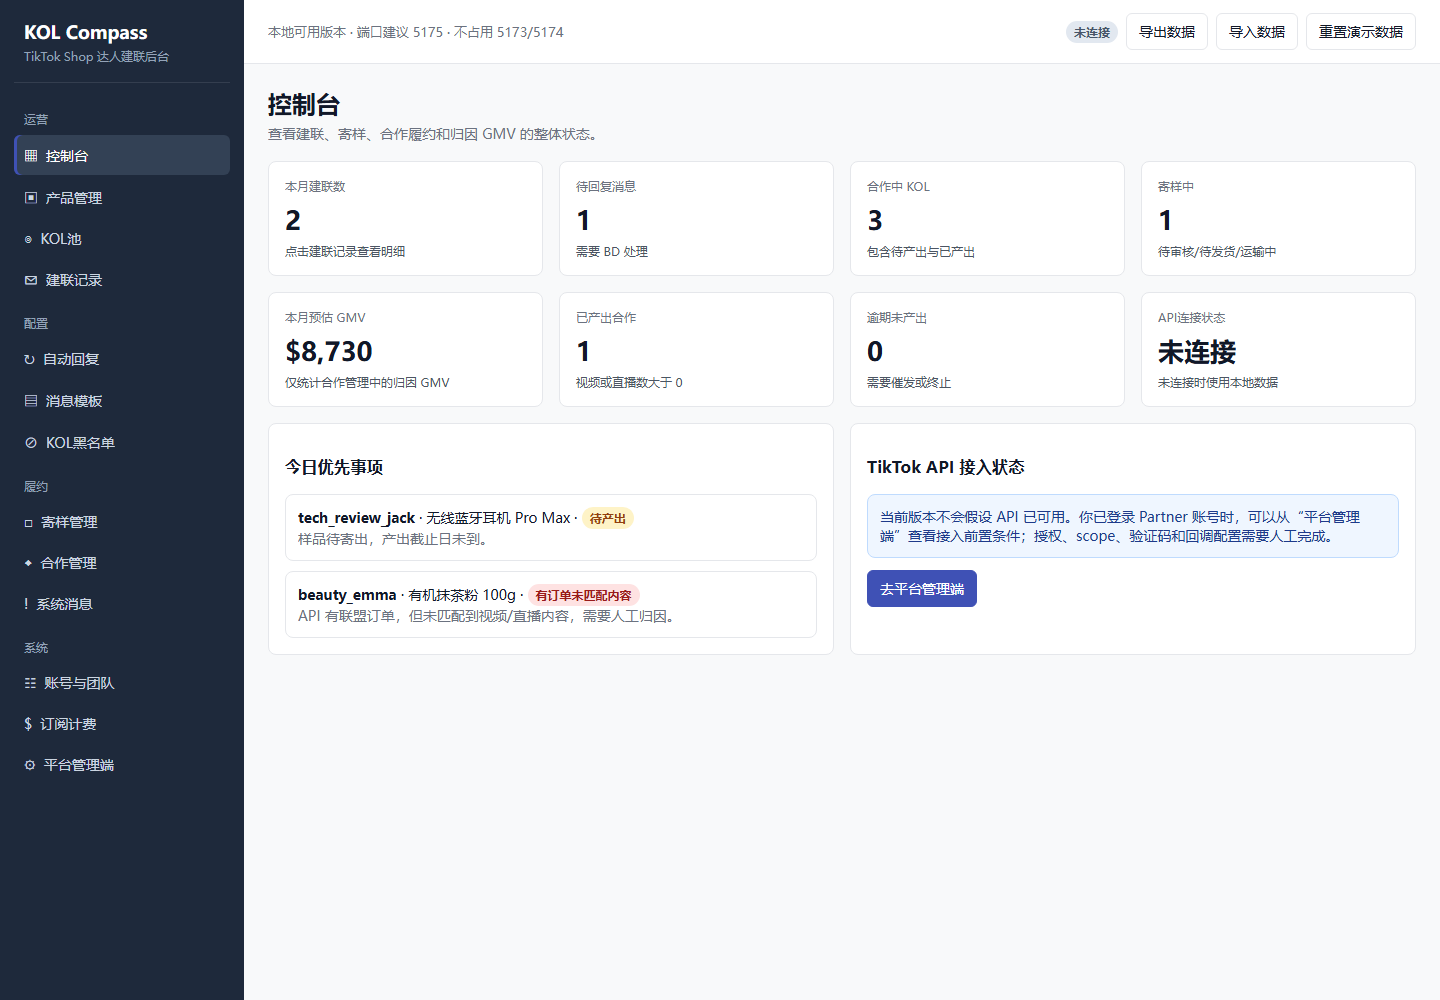
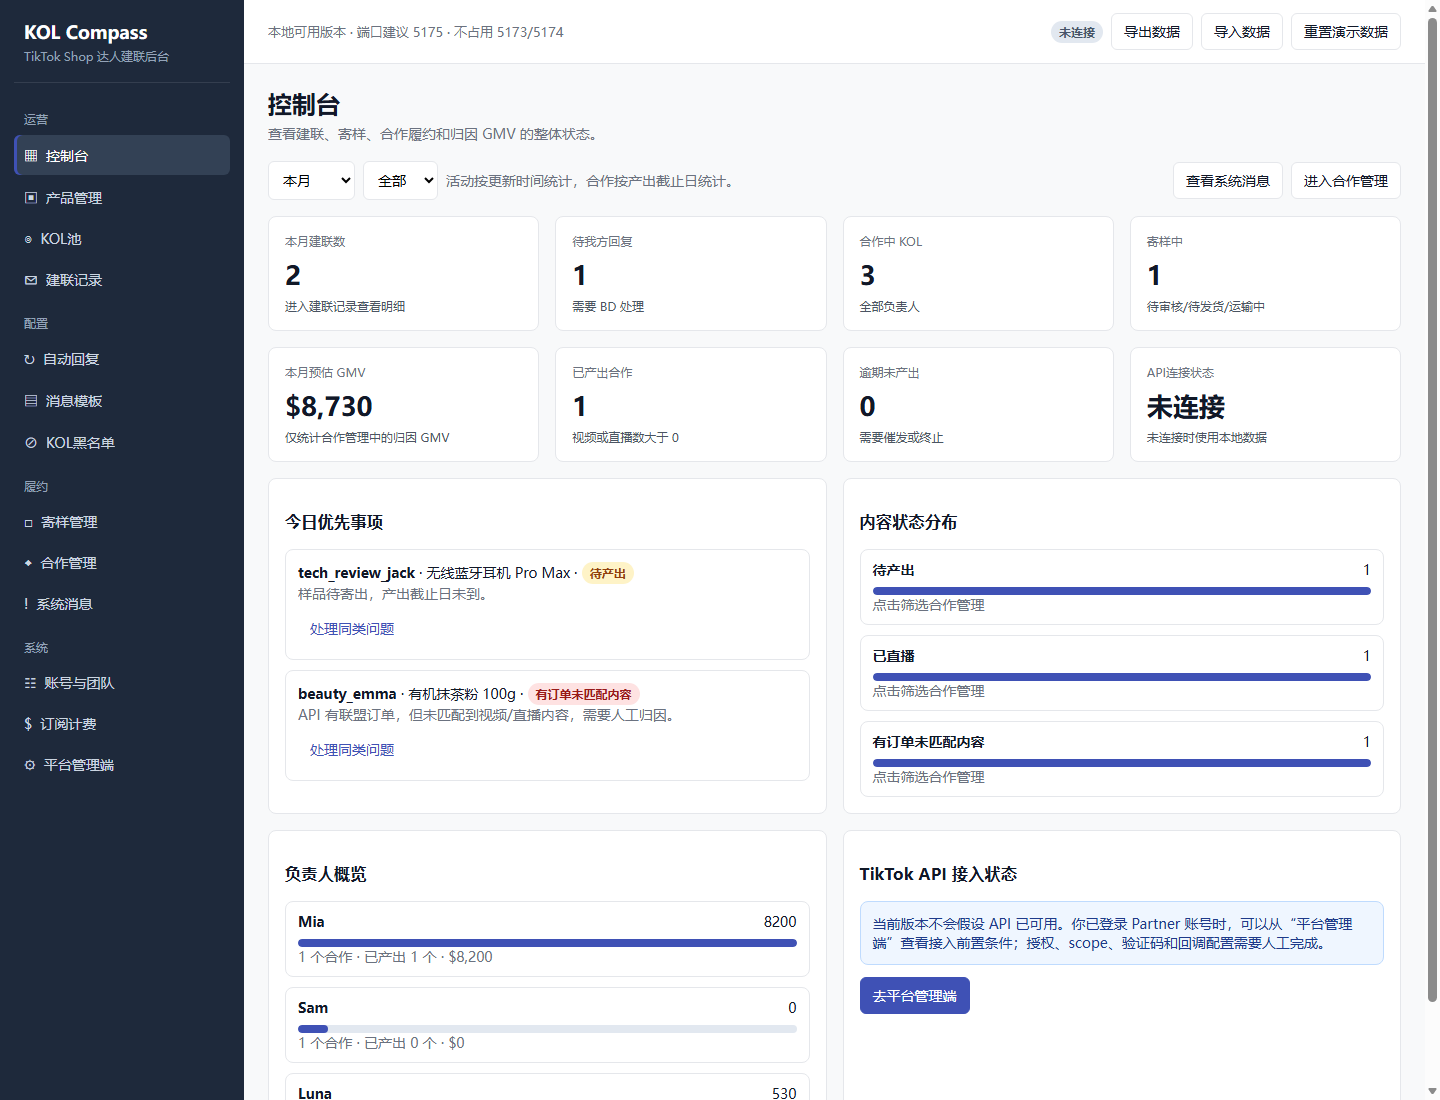
Enhance dashboard operations view

diff --git a/app.js b/app.js
@@ -58,6 +58,8 @@ const seed = {
     coopOutput: "全部",
     coopStatus: "全部",
     coopTag: "全部",
+    dashboardRange: "本月",
+    dashboardOwner: "全部",
     messageType: "全部",
     messageRead: "全部",
   },
@@ -283,6 +285,38 @@ function monthKey(value = new Date()) {
   return parsed.toISOString().slice(0, 7);
 }
 
+function dateOnly(value) {
+  const parsed = new Date(value);
+  if (Number.isNaN(parsed.getTime())) return null;
+  return new Date(parsed.getFullYear(), parsed.getMonth(), parsed.getDate());
+}
+
+function datePlus(base, days) {
+  const next = new Date(base);
+  next.setDate(next.getDate() + days);
+  return next;
+}
+
+function inActivityRange(value, range) {
+  if (range === "全部") return true;
+  const date = dateOnly(value);
+  if (!date) return false;
+  const today = dateOnly(new Date());
+  if (range === "本月") return date.getFullYear() === today.getFullYear() && date.getMonth() === today.getMonth();
+  const days = range === "近7天" ? 7 : 30;
+  return date >= datePlus(today, -(days - 1)) && date <= today;
+}
+
+function inDueRange(value, range) {
+  if (range === "全部") return true;
+  const date = dateOnly(value);
+  if (!date) return false;
+  const today = dateOnly(new Date());
+  if (range === "本月") return date.getFullYear() === today.getFullYear() && date.getMonth() === today.getMonth();
+  const days = range === "近7天" ? 7 : 30;
+  return date >= today && date <= datePlus(today, days);
+}
+
 function outreachQuota() {
   return planQuotas[state.settings.planName] ?? planQuotas["专业版"];
 }
@@ -452,40 +486,100 @@ function pageHead(title, desc, action = "") {
   `;
 }
 
-function stat(label, value, note = "") {
-  return `<div class="card"><div class="stat-label">${label}</div><div class="stat-value">${value}</div><div class="stat-note">${note}</div></div>`;
+function stat(label, value, note = "", action = "") {
+  const attrs = action ? ` role="button" tabindex="0" onclick="${action}" onkeydown="if(event.key==='Enter'||event.key===' '){event.preventDefault();${action}}"` : "";
+  return `<div class="card stat-card ${action ? "clickable" : ""}"${attrs}><div class="stat-label">${label}</div><div class="stat-value">${value}</div><div class="stat-note">${note}</div></div>`;
+}
+
+function trendBar(label, value, max, note = "", action = "") {
+  const width = max > 0 ? Math.max(6, Math.round((value / max) * 100)) : 0;
+  const click = action ? ` onclick="${action}"` : "";
+  return `
+    <div class="trend-row ${action ? "clickable" : ""}"${click}>
+      <div class="trend-head"><b>${label}</b><span>${value}</span></div>
+      <div class="trend-track"><div class="trend-fill" style="width:${width}%"></div></div>
+      ${note ? `<div class="muted">${note}</div>` : ""}
+    </div>
+  `;
 }
 
 function renderDashboard() {
-  const totalOutreach = state.outreach.length;
-  const replied = state.outreach.filter((x) => x.status === "待我方回复").length;
-  const activeCoops = state.cooperations.filter((x) => x.status !== "合作结束").length;
-  const sampleOpen = state.samples.filter((x) => x.status !== "已签收").length;
-  const gmv = state.cooperations.reduce((sum, x) => sum + Number(x.gmv || 0), 0);
-  const output = state.cooperations.filter((x) => x.videos > 0 || x.lives > 0).length;
+  const range = state.filters.dashboardRange || "本月";
+  const owner = state.filters.dashboardOwner || "全部";
+  const owners = Array.from(new Set(state.cooperations.map((x) => x.owner).filter(Boolean)));
+  const dashboardCoops = state.cooperations.filter((x) => {
+    const ownerOk = owner === "全部" || x.owner === owner;
+    return ownerOk && inDueRange(x.dueDate, range);
+  });
+  const dashboardOutreach = state.outreach.filter((x) => inActivityRange(x.updatedAt, range));
+  const dashboardSamples = state.samples.filter((x) => inActivityRange(x.updatedAt, range));
+  const totalOutreach = dashboardOutreach.length;
+  const replied = dashboardOutreach.filter((x) => x.status === "待我方回复").length;
+  const activeCoops = dashboardCoops.filter((x) => x.status !== "合作结束").length;
+  const sampleOpen = dashboardSamples.filter((x) => x.status !== "已签收").length;
+  const gmv = dashboardCoops.reduce((sum, x) => sum + Number(x.gmv || 0), 0);
+  const output = dashboardCoops.filter((x) => x.videos > 0 || x.lives > 0).length;
+  const riskCoops = dashboardCoops.filter((x) => ["逾期未产出", "有订单未匹配内容", "待产出"].includes(x.status));
+  const statusCounts = outputStatuses
+    .filter((x) => x !== "全部")
+    .map((status) => ({ status, count: dashboardCoops.filter((x) => x.status === status).length }))
+    .filter((x) => x.count > 0);
+  const maxStatus = Math.max(0, ...statusCounts.map((x) => x.count));
+  const ownerRows = owners.map((name) => {
+    const rows = state.cooperations.filter((x) => x.owner === name && inDueRange(x.dueDate, range));
+    const produced = rows.filter((x) => x.videos > 0 || x.lives > 0).length;
+    return { name, rows, produced, gmv: rows.reduce((sum, x) => sum + Number(x.gmv || 0), 0) };
+  }).filter((x) => x.rows.length > 0);
+  const maxOwnerGmv = Math.max(0, ...ownerRows.map((x) => x.gmv));
   return `
     ${pageHead("控制台", "查看建联、寄样、合作履约和归因 GMV 的整体状态。")}
+    <div class="toolbar">
+      <div class="filters">
+        <select class="select" onchange="setFilter('dashboardRange', this.value)" aria-label="控制台时间范围">
+          ${["本月", "近7天", "近30天", "全部"].map((x) => `<option ${range === x ? "selected" : ""}>${x}</option>`).join("")}
+        </select>
+        <select class="select" onchange="setFilter('dashboardOwner', this.value)" aria-label="控制台负责人">
+          ${["全部", ...owners].map((x) => `<option ${owner === x ? "selected" : ""}>${escapeHtml(x)}</option>`).join("")}
+        </select>
+        <span class="muted">活动按更新时间统计，合作按产出截止日统计。</span>
+      </div>
+      <div class="filters">
+        <button class="btn" onclick="dashboardGo('messages')">查看系统消息</button>
+        <button class="btn" onclick="dashboardGo('cooperations')">进入合作管理</button>
+      </div>
+    </div>
     <div class="grid grid-4">
-      ${stat("本月建联数", totalOutreach, "点击建联记录查看明细")}
-      ${stat("待回复消息", replied, "需要 BD 处理")}
-      ${stat("合作中 KOL", activeCoops, "包含待产出与已产出")}
-      ${stat("寄样中", sampleOpen, "待审核/待发货/运输中")}
-      ${stat("本月预估 GMV", money(gmv), "仅统计合作管理中的归因 GMV")}
-      ${stat("已产出合作", output, "视频或直播数大于 0")}
-      ${stat("逾期未产出", state.cooperations.filter((x) => x.status === "逾期未产出").length, "需要催发或终止")}
-      ${stat("API连接状态", state.settings.apiStatus, "未连接时使用本地数据")}
+      ${stat(`${range}建联数`, totalOutreach, "进入建联记录查看明细", "dashboardGo('outreach','outreachStatus','全部')")}
+      ${stat("待我方回复", replied, "需要 BD 处理", "dashboardGo('outreach','outreachStatus','待我方回复')")}
+      ${stat("合作中 KOL", activeCoops, owner === "全部" ? "全部负责人" : `负责人：${owner}`, "dashboardGo('cooperations','coopStatus','全部')")}
+      ${stat("寄样中", sampleOpen, "待审核/待发货/运输中", "dashboardGo('samples')")}
+      ${stat(`${range}预估 GMV`, money(gmv), "仅统计合作管理中的归因 GMV", "dashboardGo('cooperations','coopStatus','全部')")}
+      ${stat("已产出合作", output, "视频或直播数大于 0", "dashboardGo('cooperations','coopOutput','已产出')")}
+      ${stat("逾期未产出", dashboardCoops.filter((x) => x.status === "逾期未产出").length, "需要催发或终止", "dashboardGo('cooperations','coopStatus','逾期未产出')")}
+      ${stat("API连接状态", state.settings.apiStatus, "未连接时使用本地数据", "dashboardGo('admin')")}
     </div>
     <div class="grid grid-2" style="margin-top:16px">
       <div class="card">
         <h3>今日优先事项</h3>
         <div class="timeline">
-          ${state.cooperations.filter((x) => ["逾期未产出", "有订单未匹配内容", "待产出"].includes(x.status)).slice(0, 4).map((x) => `
+          ${riskCoops.slice(0, 4).map((x) => `
             <div class="message">
               <b>${creator(x.creatorId)?.username || "-"}</b> · ${product(x.productId)?.name || "-"} · ${badge(x.status)}
               <div class="muted">${escapeHtml(x.notes)}</div>
+              <div style="margin-top:8px"><button class="btn ghost" onclick="dashboardGo('cooperations','coopStatus','${escapeJs(x.status)}')">处理同类问题</button></div>
             </div>
           `).join("") || `<div class="empty">暂无需要处理的合作。</div>`}
         </div>
+      </div>
+      <div class="card">
+        <h3>内容状态分布</h3>
+        ${statusCounts.map((x) => trendBar(x.status, x.count, maxStatus, "点击筛选合作管理", `dashboardGo('cooperations','coopStatus','${escapeJs(x.status)}')`)).join("") || `<div class="empty">当前范围内暂无合作数据。</div>`}
+      </div>
+    </div>
+    <div class="grid grid-2" style="margin-top:16px">
+      <div class="card">
+        <h3>负责人概览</h3>
+        ${ownerRows.map((x) => trendBar(escapeHtml(x.name), x.gmv, maxOwnerGmv, `${x.rows.length} 个合作 · 已产出 ${x.produced} 个 · ${money(x.gmv)}`, `setFilter('dashboardOwner','${escapeJs(x.name)}')`)).join("") || `<div class="empty">暂无负责人数据。</div>`}
       </div>
       <div class="card">
         <h3>TikTok API 接入状态</h3>
@@ -1060,6 +1154,23 @@ function setFilter(key, value) {
   state.filters[key] = value;
   saveState();
   render();
+}
+
+function dashboardGo(page, filterKey = "", value = "") {
+  if (page === "outreach") {
+    state.filters.outreachSearch = "";
+    state.filters.outreachChannel = "全部";
+    state.filters.outreachStatus = filterKey === "outreachStatus" ? value : "全部";
+  }
+  if (page === "cooperations") {
+    if (filterKey === "coopStatus") state.filters.coopStatus = value;
+    else state.filters.coopStatus = "全部";
+    if (filterKey === "coopOutput") state.filters.coopOutput = value;
+    else state.filters.coopOutput = "全部";
+    state.filters.coopSearch = state.filters.dashboardOwner === "全部" ? "" : state.filters.dashboardOwner;
+    state.filters.coopTag = "全部";
+  }
+  navigateHash(page);
 }
 
 function showCreator(id) {
@@ -2259,6 +2370,7 @@ function escapeJs(value) {
 
 window.setPage = setPage;
 window.setFilter = setFilter;
+window.dashboardGo = dashboardGo;
 window.showCreator = showCreator;
 window.syncProducts = syncProducts;
 window.syncCreators = syncCreators;

diff --git a/smoke-test.js b/smoke-test.js
@@ -59,6 +59,8 @@ async function main() {
   }
 
   assert("cooperation has produced/unproduced metrics", app.includes("已产出达人") && app.includes("未产出达人"));
+  assert("dashboard filters and drilldowns supported", ["dashboardRange", "dashboardOwner", "dashboardGo", "内容状态分布", "负责人概览"].every((name) => app.includes(name)));
+  assert("dashboard separates activity and due ranges", ["inActivityRange", "inDueRange"].every((name) => app.includes(`function ${name}`)) && app.includes("活动按更新时间统计，合作按产出截止日统计"));
   assert("cooperation search and output filters supported", ["coopSearch", "coopOutput"].every((name) => app.includes(name)) && app.includes("搜索达人、产品、负责人、备注"));
   assert("product filters supported", ["productSearch", "productCategory", "productStatus", "productMode"].every((name) => app.includes(name)) && app.includes("真实商品、佣金率和合作模式应来自 TikTok Shop Partner API"));
   assert("cooperation has content tracking status filters", app.includes("逾期未产出") && app.includes("有订单未匹配内容"));

diff --git a/app.css b/app.css
@@ -167,6 +167,17 @@ button {
   padding: 16px;
 }
 
+.stat-card.clickable,
+.trend-row.clickable {
+  cursor: pointer;
+}
+
+.stat-card.clickable:hover,
+.trend-row.clickable:hover {
+  border-color: var(--primary);
+  box-shadow: 0 1px 0 rgba(37, 99, 235, 0.08);
+}
+
 .stat-label {
   color: var(--muted);
   font-size: 12px;
@@ -182,6 +193,34 @@ button {
   color: var(--subtle);
   font-size: 12px;
   margin-top: 6px;
+}
+
+.trend-row {
+  border: 1px solid var(--border);
+  border-radius: 8px;
+  padding: 10px 12px;
+  margin-top: 10px;
+}
+
+.trend-head {
+  display: flex;
+  align-items: center;
+  justify-content: space-between;
+  gap: 12px;
+  margin-bottom: 8px;
+}
+
+.trend-track {
+  height: 8px;
+  border-radius: 999px;
+  background: #e2e8f0;
+  overflow: hidden;
+}
+
+.trend-fill {
+  height: 100%;
+  border-radius: 999px;
+  background: var(--primary);
 }
 
 .toolbar {

diff --git a/docs/CLAUDE_CONTINUE.md b/docs/CLAUDE_CONTINUE.md
@@ -31,7 +31,7 @@
 - `stop-5175.bat`
 - `smoke-test.js`
 
-最近一次心跳检查：2026-06-22 04:09 CST，当前分支已连接 GitHub 远端，`node --check app.js` 与 `node smoke-test.js` 通过。本轮补齐系统消息通知中心：类型筛选、已读筛选、全部已读、单条已读、删除和 90 天本地保留。
+最近一次心跳检查：2026-06-22 05:02 CST，当前分支已连接 GitHub 远端，`node --check app.js` 与 `node smoke-test.js` 通过。本轮增强控制台：本月/近7天/近30天/全部时间范围筛选、负责人筛选、指标下钻、内容状态分布和负责人概览；截图 `smoke-dashboard.png` 已重新生成并目视检查通过。
 
 启动：
 
@@ -83,20 +83,26 @@ KOL详情页不能展示：
 P0：
 
 1. 保持 `smoke-test.js` 全绿。
-2. 保持产品管理可用：
+2. 保持控制台作为运营入口可用：
+   - 支持本月/近7天/近30天/全部筛选
+   - 支持按合作负责人筛选
+   - 活动指标按更新时间统计，合作履约指标按产出截止日统计
+   - 关键指标可下钻到建联记录、寄样管理、合作管理、系统消息和平台管理端
+   - 内容状态分布和负责人概览可直接筛选
+3. 保持产品管理可用：
    - 支持关键词搜索
    - 支持类目、状态、合作模式筛选
    - 未授权 TikTok Partner API 时只展示本地数据和明确提示，不伪造同步成功
    - 不允许手动新增商品，避免和 TikTok Shop 真实商品源冲突
-3. 补齐各页面的新增/编辑/删除闭环，不只是展示。
-4. 把“合作管理”作为内容追踪主工作台继续增强：
+4. 补齐各页面的新增/编辑/删除闭环，不只是展示。
+5. 把“合作管理”作为内容追踪主工作台继续增强：
    - 达人/产品/负责人/备注搜索
    - 已产出 / 未产出筛选
    - 固定标签 + 自定义标签
    - 逾期未产出检查
    - 有订单未匹配内容的处理动作
    - 催发、结束、删除等操作必须真实更新本地状态
-5. 保持 KOL 池批量建联闭环：
+6. 保持 KOL 池批量建联闭环：
    - 关键词、达人类型、类目、地区、粉丝量级、回复率区间筛选
    - 勾选达人
    - 一键建联
@@ -105,7 +111,7 @@ P0：
    - 附加邀请链接时自动进入合作管理
    - 保存建联时必须校验月配额、同一达人 24 小时限发、不感兴趣 30 天屏蔽
    - 建联记录和 KOL 池均可标记不感兴趣，手动恢复后才可再次建联
-6. 保持沟通闭环：
+7. 保持沟通闭环：
    - 达人编辑弹窗可录入 Email / WhatsApp
    - 建联记录可按达人/产品/消息关键词、沟通状态、渠道筛选
    - 建联记录可直接回复
@@ -113,19 +119,19 @@ P0：
    - 回复后沟通状态回到待达人回复
    - 消息模板可新增、编辑、删除，并保留变量提示
    - 自动回复可新增、编辑、删除、启停和本地测试触发；真实发送必须等 TikTok/Email/WhatsApp 接入完成后再启用外部发送
-7. 增强数据持久化：
+8. 增强数据持久化：
    - 当前使用 localStorage
    - 后续如果需要后端，新增本项目自己的后端端口，例如 `8015`
    - 不接入 `D:\tiktok-creator-tool` 的后端
-8. 保持平台功能开关真实生效：
+9. 保持平台功能开关真实生效：
    - Email / WhatsApp 关闭后，新建联和回复渠道不展示对应入口
    - 保存建联/回复时必须二次校验渠道开关和达人联系方式
    - Stripe 关闭后，订阅页必须明确展示 Stripe 不可用
-9. 保持团队管理可用：
+10. 保持团队管理可用：
    - 成员可新增、编辑、启禁用
    - 角色权限摘要和可访问店铺必须可见
    - 关键操作要写入操作日志，日志包含操作人、动作、对象、内容、IP、时间
-10. 保持系统消息通知中心可用：
+11. 保持系统消息通知中心可用：
    - 支持同步日志
    - 支持类型筛选、已读筛选、全部已读、单条已读、删除
    - 本地消息保留最近 90 天

diff --git a/docs/PROJECT_MEMORY.md b/docs/PROJECT_MEMORY.md
@@ -1,6 +1,6 @@
 # KOL Compass 项目记忆
 
-更新时间：2026-06-22 04:09 CST
+更新时间：2026-06-22 05:02 CST
 
 ## 当前工作目录
 
@@ -40,6 +40,7 @@ node smoke-test.js
 
 - `node --check app.js` 通过。
 - `node smoke-test.js` 全部通过。
+- 控制台截图 `smoke-dashboard.png` 已重新生成并目视检查通过，时间范围筛选、负责人筛选、指标下钻、内容状态分布和负责人概览可见。
 - 系统消息截图 `smoke-messages.png` 已重新生成并目视检查通过，类型筛选、已读筛选、全部已读、单条已读/删除可见。
 - 账号与团队截图 `smoke-team.png` 已生成并目视检查通过，成员管理、角色权限、可访问店铺和操作日志可见。
 - KOL 池截图 `smoke-kol-pool.png` 已重新生成并目视检查通过，建联配额、24 小时限发和不感兴趣入口可见。
@@ -58,6 +59,8 @@ node smoke-test.js
 - 寄样管理截图 `smoke-samples.png` 已生成并目视检查通过。
 - `5175` 是本项目端口。
 - `5173` / `5174` 不属于本项目，不能占用或关闭。
+- 控制台已支持按本月/近7天/近30天/全部筛选，并支持按合作负责人筛选；活动指标按更新时间统计，合作履约指标按产出截止日统计。
+- 控制台关键指标可下钻到建联记录、寄样管理、合作管理、系统消息和平台管理端；合作状态分布和负责人概览可直接筛选。
 - KOL 详情页不展示内容产出、视频、直播、GMV、订单、佣金、ROI。
 - 内容追踪只放在合作管理。
 - 产品管理已支持按产品关键词、类目、状态、合作模式筛选，并明确提示真实数据来自 TikTok Shop Partner API。

diff --git a/docs/ACCEPTANCE_REPORT.md b/docs/ACCEPTANCE_REPORT.md
@@ -71,6 +71,24 @@
 
 `smoke-cooperations.png`
 
+### 控制台
+
+控制台是运营入口，不只展示静态数字。
+
+已包含：
+
+- 本月/近7天/近30天/全部时间范围筛选
+- 负责人筛选
+- 建联、待我方回复、合作中、寄样中、GMV、已产出、逾期未产出、API 状态指标
+- 指标点击下钻到对应业务页面
+- 今日优先事项
+- 内容状态分布
+- 负责人概览
+
+验收截图：
+
+`smoke-dashboard.png`
+
 ### KOL详情
 
 KOL详情页只展示基础资料、联系方式、标签备注、沟通记录和合作入口。
@@ -118,6 +136,7 @@ node smoke-test.js
 - `index.html` 正确加载 `app.js`
 - 端口边界文档存在
 - 核心页面文案存在
+- 控制台支持时间范围筛选、负责人筛选、指标下钻、内容状态分布和负责人概览
 - 合作管理包含已产出/未产出
 - 合作管理包含内容追踪状态筛选
 - 合作管理包含催发、匹配、结束、删除操作

diff --git a/README.md b/README.md
@@ -66,6 +66,7 @@ KOL CSV 支持表头：
 - 本地静态 SPA，无需安装 npm 依赖。
 - 数据存储在浏览器 `localStorage`，支持刷新后保留。
 - 顶部工具栏支持导出/导入 JSON，便于本地备份、迁移和恢复。
+- 控制台支持本月/近7天/近30天/全部时间范围筛选、负责人筛选、指标下钻、内容状态分布和负责人概览。
 - 产品管理支持搜索、类目筛选、状态筛选和合作模式筛选；未授权时仅使用本地数据，不伪造 TikTok API 同步成功。
 - KOL池支持导入 KOL CSV、关键词/达人类型/类目/地区/粉丝量级/回复率筛选、勾选达人、一键建联、选择产品/模板/渠道、定时发送记录和附加邀请链接；合作管理支持导入合作 CSV。
 - KOL池和建联保存会执行建联安全规则：月配额、同一达人 24 小时限发、不感兴趣 30 天屏蔽。
